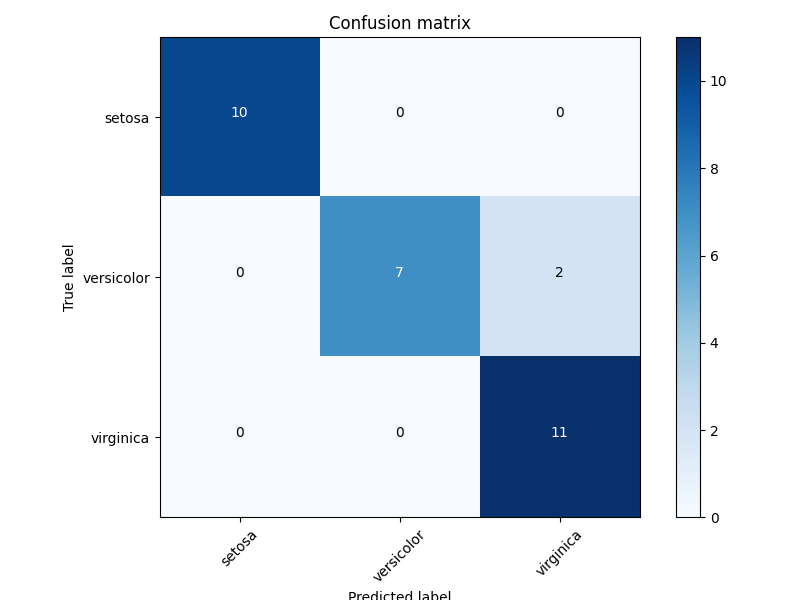
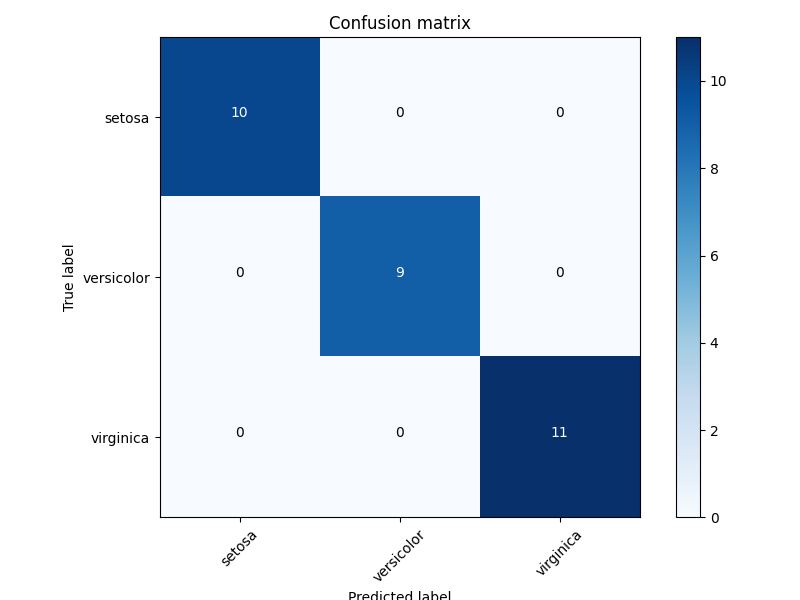
taks 5.1

Changed region(s): [[0.375, 0.3, 0.8125, 0.6]]

diff --git a/dvc_plots/index.html b/dvc_plots/index.html
@@ -18,6 +18,11 @@
             <p>workspace</p>
             <img src="static/workspace_reports_confusion_matrix.png">
         </div>
+
+        <div>
+            <p>HEAD</p>
+            <img src="static/HEAD_reports_confusion_matrix.png">
+        </div>
         </div>
 
     <div id = "plot_reports_confusion_matrix_data_csv">
@@ -47,7 +52,7 @@
         "y_true": "versicolor"
     },
     {
-        "predicted": "virginica",
+        "predicted": "versicolor",
         "rev": "workspace",
         "y_true": "versicolor"
     },
@@ -102,7 +107,7 @@
         "y_true": "setosa"
     },
     {
-        "predicted": "virginica",
+        "predicted": "versicolor",
         "rev": "workspace",
         "y_true": "versicolor"
     },
@@ -174,6 +179,156 @@
     {
         "predicted": "setosa",
         "rev": "workspace",
+        "y_true": "setosa"
+    },
+    {
+        "predicted": "versicolor",
+        "rev": "HEAD",
+        "y_true": "versicolor"
+    },
+    {
+        "predicted": "setosa",
+        "rev": "HEAD",
+        "y_true": "setosa"
+    },
+    {
+        "predicted": "virginica",
+        "rev": "HEAD",
+        "y_true": "virginica"
+    },
+    {
+        "predicted": "versicolor",
+        "rev": "HEAD",
+        "y_true": "versicolor"
+    },
+    {
+        "predicted": "virginica",
+        "rev": "HEAD",
+        "y_true": "versicolor"
+    },
+    {
+        "predicted": "setosa",
+        "rev": "HEAD",
+        "y_true": "setosa"
+    },
+    {
+        "predicted": "versicolor",
+        "rev": "HEAD",
+        "y_true": "versicolor"
+    },
+    {
+        "predicted": "virginica",
+        "rev": "HEAD",
+        "y_true": "virginica"
+    },
+    {
+        "predicted": "versicolor",
+        "rev": "HEAD",
+        "y_true": "versicolor"
+    },
+    {
+        "predicted": "versicolor",
+        "rev": "HEAD",
+        "y_true": "versicolor"
+    },
+    {
+        "predicted": "virginica",
+        "rev": "HEAD",
+        "y_true": "virginica"
+    },
+    {
+        "predicted": "setosa",
+        "rev": "HEAD",
+        "y_true": "setosa"
+    },
+    {
+        "predicted": "setosa",
+        "rev": "HEAD",
+        "y_true": "setosa"
+    },
+    {
+        "predicted": "setosa",
+        "rev": "HEAD",
+        "y_true": "setosa"
+    },
+    {
+        "predicted": "setosa",
+        "rev": "HEAD",
+        "y_true": "setosa"
+    },
+    {
+        "predicted": "virginica",
+        "rev": "HEAD",
+        "y_true": "versicolor"
+    },
+    {
+        "predicted": "virginica",
+        "rev": "HEAD",
+        "y_true": "virginica"
+    },
+    {
+        "predicted": "versicolor",
+        "rev": "HEAD",
+        "y_true": "versicolor"
+    },
+    {
+        "predicted": "versicolor",
+        "rev": "HEAD",
+        "y_true": "versicolor"
+    },
+    {
+        "predicted": "virginica",
+        "rev": "HEAD",
+        "y_true": "virginica"
+    },
+    {
+        "predicted": "setosa",
+        "rev": "HEAD",
+        "y_true": "setosa"
+    },
+    {
+        "predicted": "virginica",
+        "rev": "HEAD",
+        "y_true": "virginica"
+    },
+    {
+        "predicted": "setosa",
+        "rev": "HEAD",
+        "y_true": "setosa"
+    },
+    {
+        "predicted": "virginica",
+        "rev": "HEAD",
+        "y_true": "virginica"
+    },
+    {
+        "predicted": "virginica",
+        "rev": "HEAD",
+        "y_true": "virginica"
+    },
+    {
+        "predicted": "virginica",
+        "rev": "HEAD",
+        "y_true": "virginica"
+    },
+    {
+        "predicted": "virginica",
+        "rev": "HEAD",
+        "y_true": "virginica"
+    },
+    {
+        "predicted": "virginica",
+        "rev": "HEAD",
+        "y_true": "virginica"
+    },
+    {
+        "predicted": "setosa",
+        "rev": "HEAD",
+        "y_true": "setosa"
+    },
+    {
+        "predicted": "setosa",
+        "rev": "HEAD",
         "y_true": "setosa"
     }
 ]
